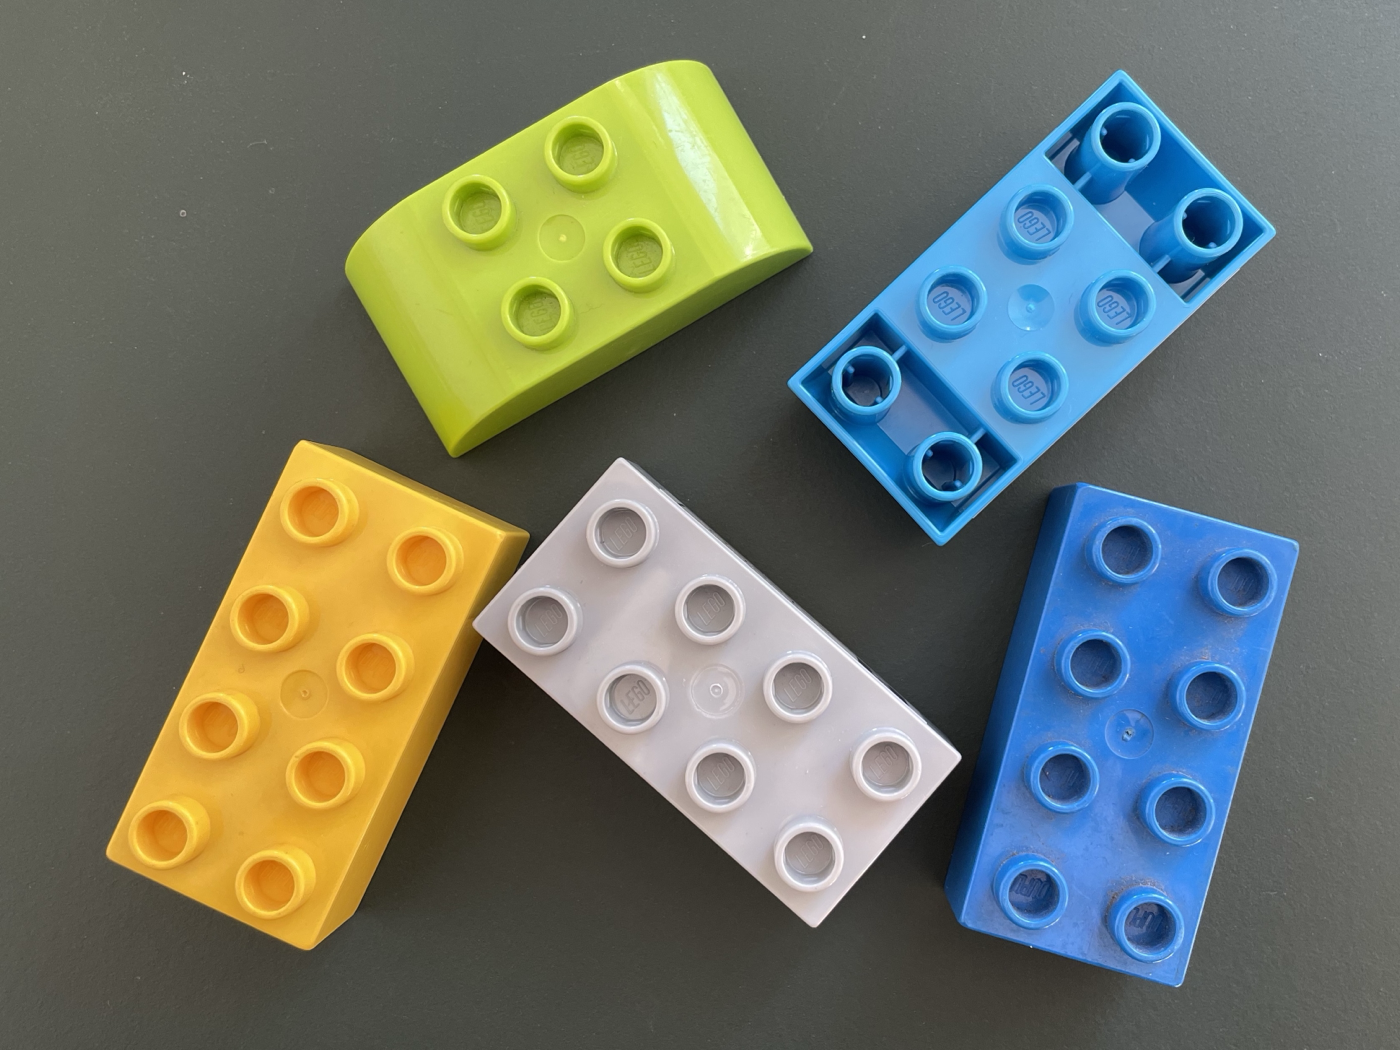
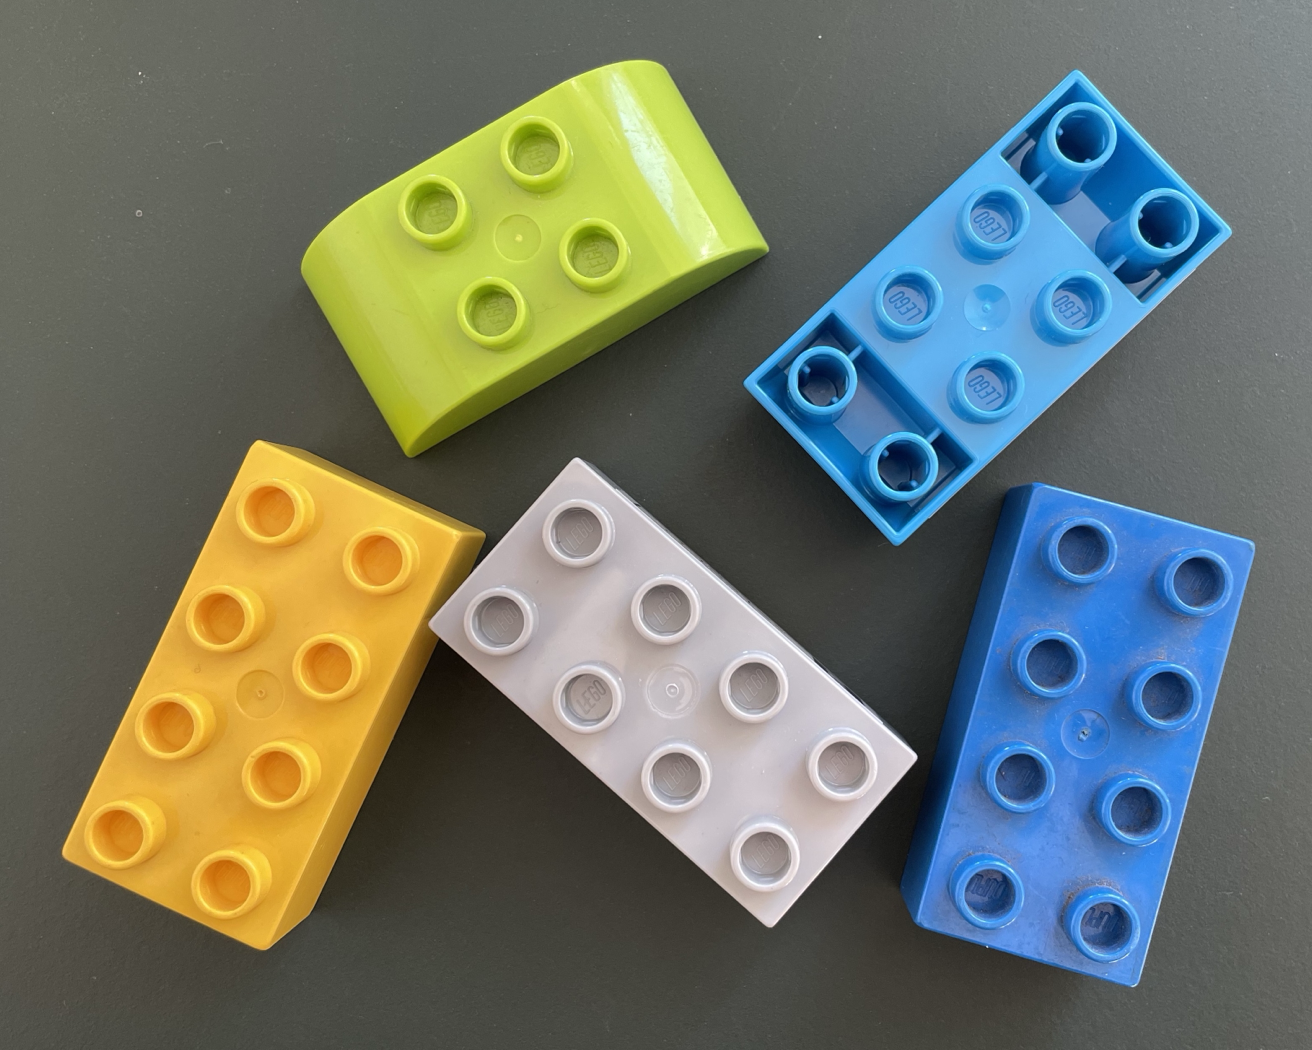
Square up the paired images and let them fill the columns

diff --git a/custom.css b/custom.css
@@ -89,6 +89,14 @@
   max-height: 300px;
 }
 
+/* The paired play-doh/lego slide has vertical room to spare, so let its two
+   images run to the column width instead of the shared 300px cap. Scoped to
+   the slide: the closing slide is also a .columns layout and its QR code
+   should stay small. */
+.reveal .pair .columns img {
+  max-height: 420px;
+}
+
 /* The theme hardcodes `.reveal pre { font-size: 0.55em }` — it does not read
    --r-block-code-font-size — and `pre code` is `inherit`, so the size has to
    be set here on the `pre`. Bounded by the widest line, not slide height. */
